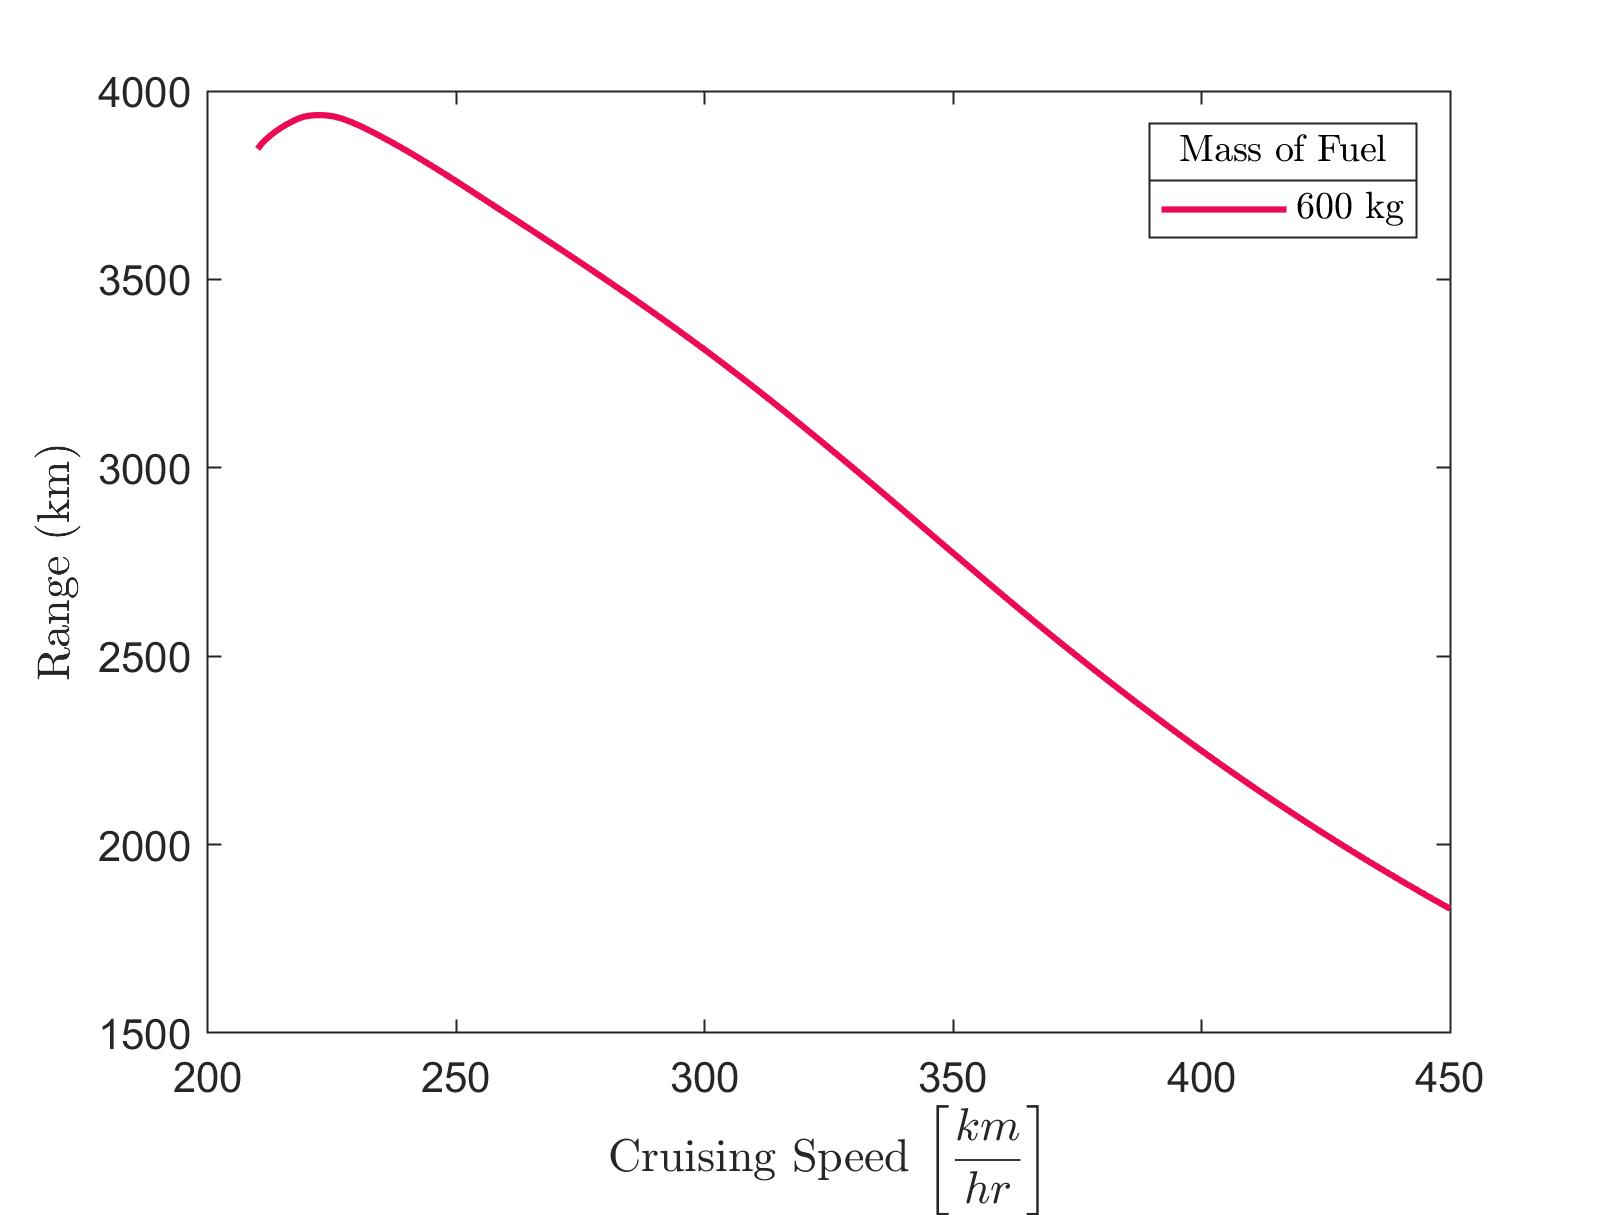
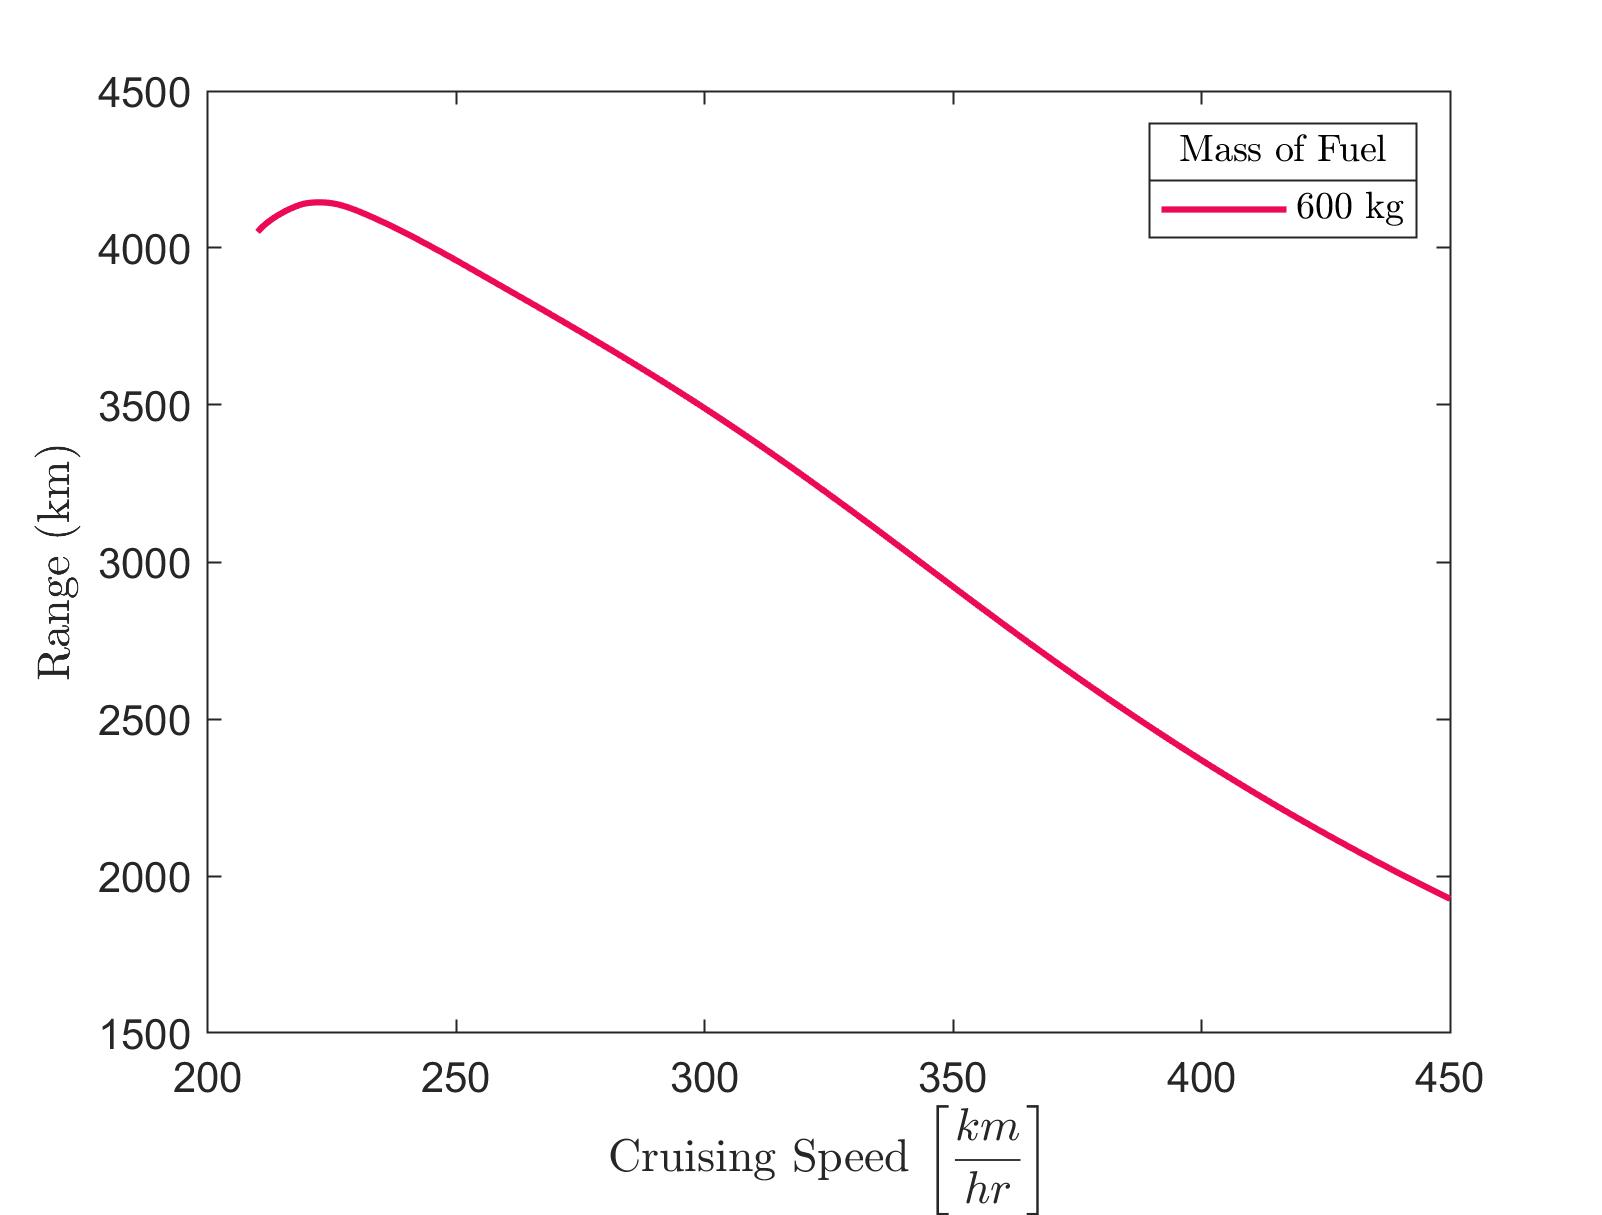
Replaced Ethane with methane for part 3

diff --git a/Main_part_3.m b/Main_part_3.m
@@ -5,9 +5,9 @@ m_aircraft = 1600;              % kg; mass of aircraft without fuel & equipment 
 eff_actual_cycle = 0.430218;    % efficiency of actual cycle
 m_fuel = linspace(600,0,601);   % kg; mass of fuel as it is consumed
 
-H_ethane = 47484;               % kJ/kg; heating value for ethane
-M_mass_ethane = 30.070;         % g/mol; molecular mass of ethane
-carbon_atoms_ethane = 2;        % # of carbon atoms in methanes chemical formula
+H_methane = 50010;              % kJ/kg; heating value for methane
+M_mass_methane = 16.043;        % g/mol; molecular mass of methane
+carbon_atoms_methane = 1;       % # of carbon atoms in methanes chemical formula
 M_mass_co2 = 44.0095;           % g/mol; molar mass of carbon dioxide
 
 g = 9.8;                        % m/s^2
@@ -28,7 +28,7 @@ alpha_actual = zeros(1,length(v));
 coeff_L = zeros(1,length(v));
 
 for i = 1:length(m_fuel) % Integrating fuel as it decreases
-    Q_released = m_fuel(end-1)*(H_ethane*1000);        % J; or kg*m^2/s^2; amount of energy from combustion
+    Q_released = m_fuel(end-1)*(H_methane*1000);        % J; or kg*m^2/s^2; amount of energy from combustion
     lift = (m_fuel(i) + m_aircraft)*g;             % Newtons; or kg*m/s^2
     
     for j = 1:length(v)
@@ -40,10 +40,10 @@ for i = 1:length(m_fuel) % Integrating fuel as it decreases
     end
 end
 %% Calulating CO2 usage vs range
-moles_ethane = max(m_fuel)*1000/M_mass_ethane;    %   calculates moles of ethane from max fuel
-moles_co2_ethane = moles_ethane*(carbon_atoms_ethane);   %  calculates moles of co2 using ratio
-emissions_ethane = (moles_co2_ethane*M_mass_co2)/1000;   %   kg; carbon dioxide emissions
-range_emissions = emissions_ethane./(range(1,:));    %   kg/km carbon emissions per kilometer vs cruising speed
+moles_ethane = max(m_fuel)*1000/M_mass_methane;    %   calculates moles of ethane from max fuel
+moles_co2_methane = moles_ethane*(carbon_atoms_methane);   %  calculates moles of co2 using ratio
+emissions_methane = (moles_co2_methane*M_mass_co2)/1000;   %   kg; carbon dioxide emissions
+range_emissions = emissions_methane./(range(1,:));    %   kg/km carbon emissions per kilometer vs cruising speed
 
 %% Plotting
 figure('Units','inches','Position',[2 1 3.56 2.7].*1.5)
